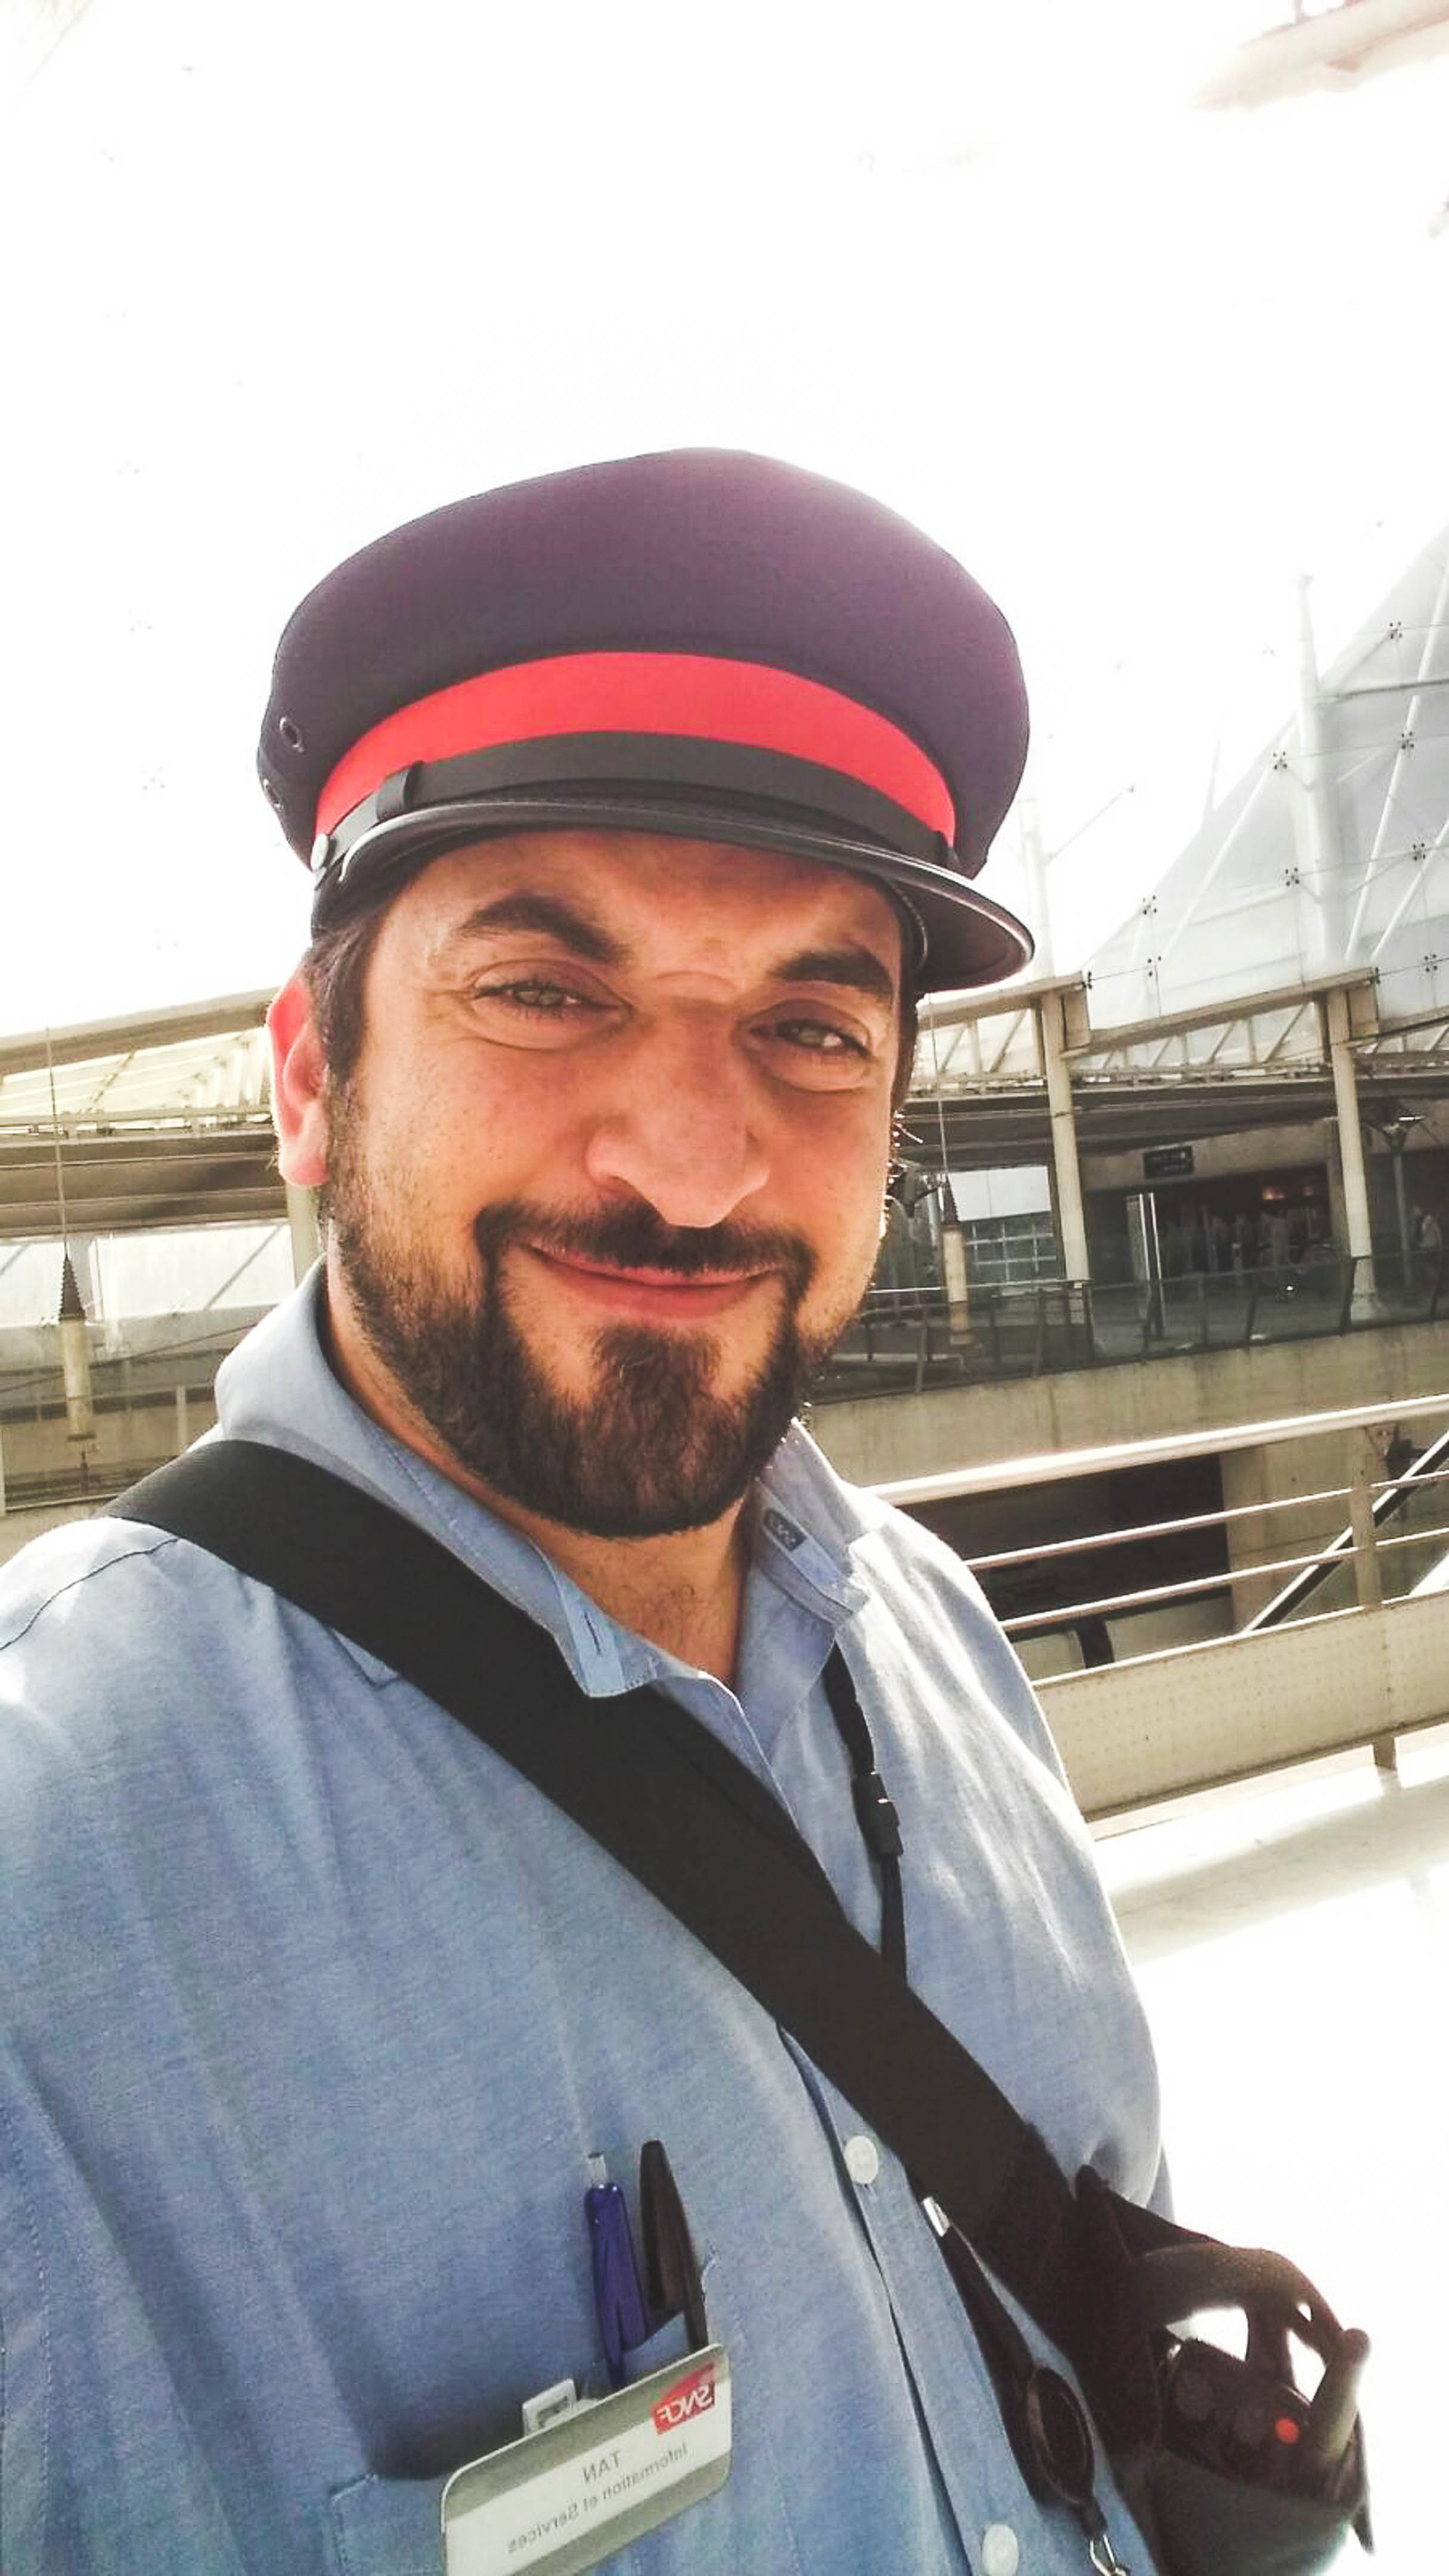
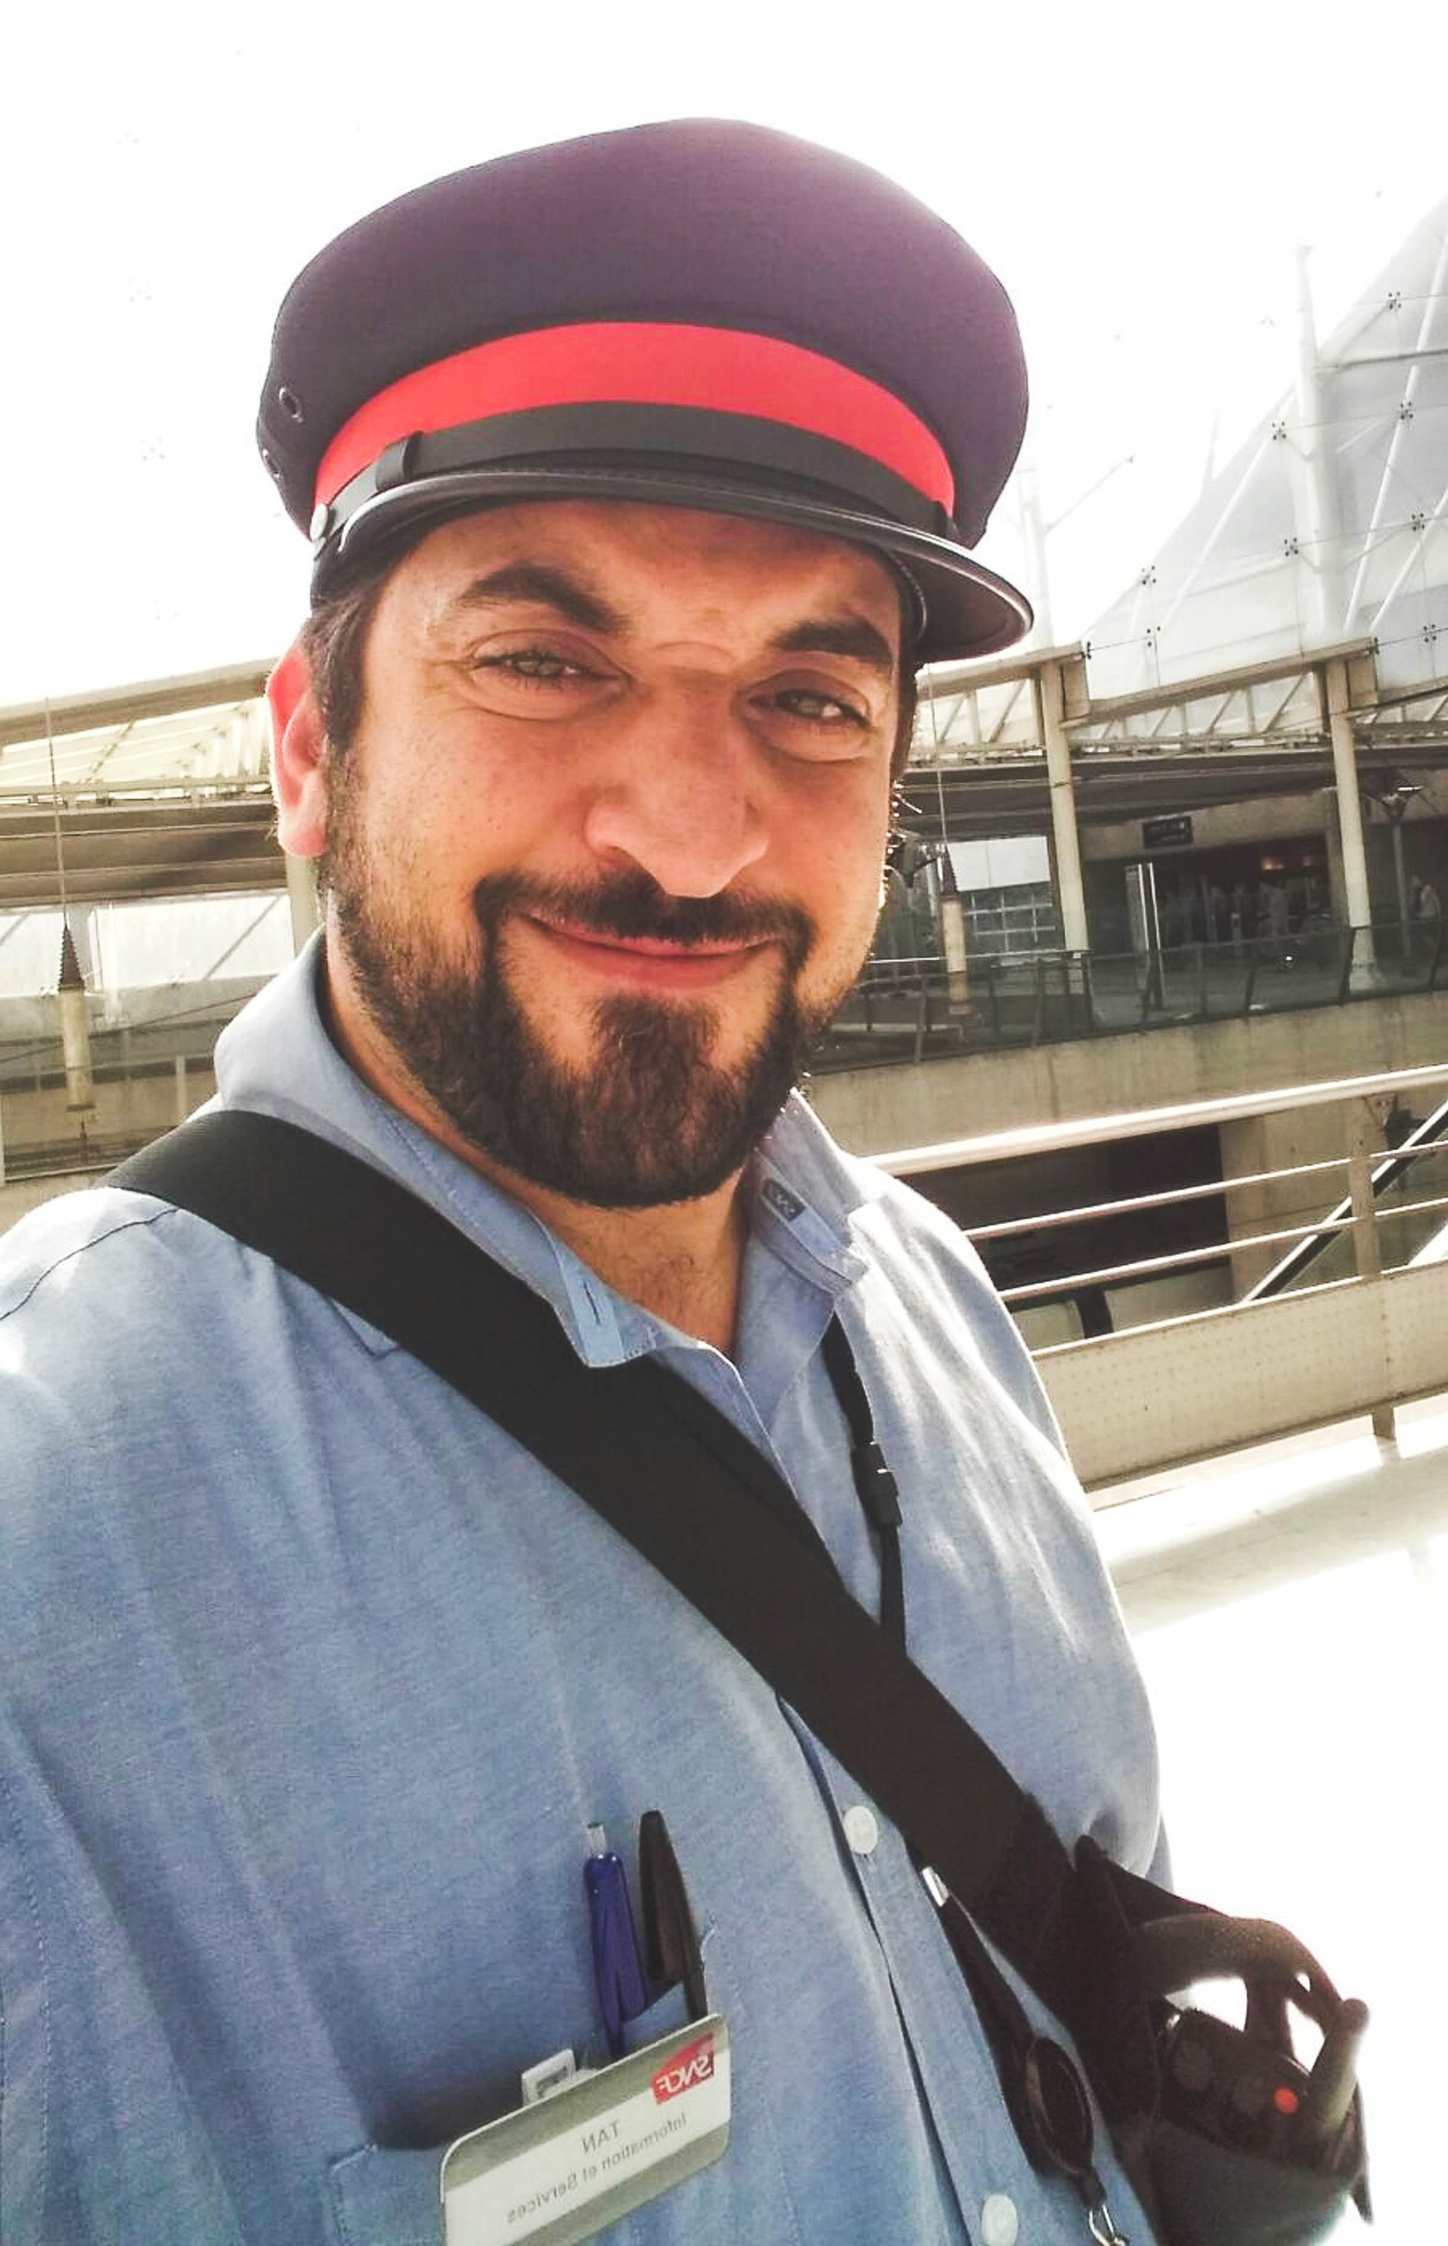
premier jet ok et propre

diff --git a/public/index.bundle.js b/public/index.bundle.js
@@ -86,6 +86,19 @@
 /************************************************************************/
 /******/ ({
 
+/***/ "./assets/img/IP.png":
+/*!***************************!*\
+  !*** ./assets/img/IP.png ***!
+  \***************************/
+/*! exports provided: default */
+/***/ (function(module, __webpack_exports__, __webpack_require__) {
+
+"use strict";
+__webpack_require__.r(__webpack_exports__);
+/* harmony default export */ __webpack_exports__["default"] = (__webpack_require__.p + "assets/img/IP.png");
+
+/***/ }),
+
 /***/ "./assets/img/localisation.png":
 /*!*************************************!*\
   !*** ./assets/img/localisation.png ***!
@@ -112,6 +125,32 @@ __webpack_require__.r(__webpack_exports__);
 
 /***/ }),
 
+/***/ "./assets/img/nodeicon.png":
+/*!*********************************!*\
+  !*** ./assets/img/nodeicon.png ***!
+  \*********************************/
+/*! exports provided: default */
+/***/ (function(module, __webpack_exports__, __webpack_require__) {
+
+"use strict";
+__webpack_require__.r(__webpack_exports__);
+/* harmony default export */ __webpack_exports__["default"] = (__webpack_require__.p + "assets/img/nodeicon.png");
+
+/***/ }),
+
+/***/ "./assets/img/ville.png":
+/*!******************************!*\
+  !*** ./assets/img/ville.png ***!
+  \******************************/
+/*! exports provided: default */
+/***/ (function(module, __webpack_exports__, __webpack_require__) {
+
+"use strict";
+__webpack_require__.r(__webpack_exports__);
+/* harmony default export */ __webpack_exports__["default"] = (__webpack_require__.p + "assets/img/ville.png");
+
+/***/ }),
+
 /***/ "./assets/img/weather.png":
 /*!********************************!*\
   !*** ./assets/img/weather.png ***!
@@ -122,6 +161,19 @@ __webpack_require__.r(__webpack_exports__);
 "use strict";
 __webpack_require__.r(__webpack_exports__);
 /* harmony default export */ __webpack_exports__["default"] = (__webpack_require__.p + "assets/img/weather.png");
+
+/***/ }),
+
+/***/ "./assets/img/weatherapp.png":
+/*!***********************************!*\
+  !*** ./assets/img/weatherapp.png ***!
+  \***********************************/
+/*! exports provided: default */
+/***/ (function(module, __webpack_exports__, __webpack_require__) {
+
+"use strict";
+__webpack_require__.r(__webpack_exports__);
+/* harmony default export */ __webpack_exports__["default"] = (__webpack_require__.p + "assets/img/weatherapp.png");
 
 /***/ }),
 
@@ -173,9 +225,17 @@ __webpack_require__.r(__webpack_exports__);
 /* harmony import */ var _style_css__WEBPACK_IMPORTED_MODULE_0___default = /*#__PURE__*/__webpack_require__.n(_style_css__WEBPACK_IMPORTED_MODULE_0__);
 /* harmony import */ var _assets_img_localisation_png__WEBPACK_IMPORTED_MODULE_1__ = __webpack_require__(/*! ../assets/img/localisation.png */ "./assets/img/localisation.png");
 /* harmony import */ var _assets_img_weather_png__WEBPACK_IMPORTED_MODULE_2__ = __webpack_require__(/*! ../assets/img/weather.png */ "./assets/img/weather.png");
-/* harmony import */ var _assets_img_me_jpg__WEBPACK_IMPORTED_MODULE_3__ = __webpack_require__(/*! ../assets/img/me.jpg */ "./assets/img/me.jpg");
-/* harmony import */ var _assets_js_app_js__WEBPACK_IMPORTED_MODULE_4__ = __webpack_require__(/*! ../assets/js/app.js */ "./assets/js/app.js");
-/* harmony import */ var _assets_js_app_js__WEBPACK_IMPORTED_MODULE_4___default = /*#__PURE__*/__webpack_require__.n(_assets_js_app_js__WEBPACK_IMPORTED_MODULE_4__);
+/* harmony import */ var _assets_img_nodeicon_png__WEBPACK_IMPORTED_MODULE_3__ = __webpack_require__(/*! ../assets/img/nodeicon.png */ "./assets/img/nodeicon.png");
+/* harmony import */ var _assets_img_weatherapp_png__WEBPACK_IMPORTED_MODULE_4__ = __webpack_require__(/*! ../assets/img/weatherapp.png */ "./assets/img/weatherapp.png");
+/* harmony import */ var _assets_img_IP_png__WEBPACK_IMPORTED_MODULE_5__ = __webpack_require__(/*! ../assets/img/IP.png */ "./assets/img/IP.png");
+/* harmony import */ var _assets_img_ville_png__WEBPACK_IMPORTED_MODULE_6__ = __webpack_require__(/*! ../assets/img/ville.png */ "./assets/img/ville.png");
+/* harmony import */ var _assets_img_me_jpg__WEBPACK_IMPORTED_MODULE_7__ = __webpack_require__(/*! ../assets/img/me.jpg */ "./assets/img/me.jpg");
+/* harmony import */ var _assets_js_app_js__WEBPACK_IMPORTED_MODULE_8__ = __webpack_require__(/*! ../assets/js/app.js */ "./assets/js/app.js");
+/* harmony import */ var _assets_js_app_js__WEBPACK_IMPORTED_MODULE_8___default = /*#__PURE__*/__webpack_require__.n(_assets_js_app_js__WEBPACK_IMPORTED_MODULE_8__);
+
+
+
+
 
 
 
@@ -196,4 +256,4 @@ __webpack_require__.r(__webpack_exports__);
 /***/ })
 
 /******/ });
[2 lines of base64/hex data omitted]

diff --git a/public/index.css b/public/index.css
@@ -2,6 +2,15 @@ h1 {
   color: red;
   margin-top: 80px;
 }
+.card {
+  display: flex;
+  align-items: center;
+  min-width: 200px;
+}
+
+.card img {
+  width: 50px;
+}
 body {
   color: #333333;
   font-family: arial;
@@ -41,9 +50,9 @@ header a {
 }
 
 .portrait {
-  max-height: 40vh;
+  max-height: 250px;
+  max-width: 180px;
   width: 250 px;
-  max-height: 40vh;
 }
 
 input {
@@ -58,4 +67,5 @@ button {
   padding: 8px;
 }
 
[1 lines of base64/hex data omitted]
+
[1 lines of base64/hex data omitted]

diff --git a/src/index.js b/src/index.js
@@ -1,5 +1,9 @@
 import "./style.css";
 import "../assets/img/localisation.png";
 import "../assets/img/weather.png";
+import "../assets/img/nodeicon.png";
+import "../assets/img/weatherapp.png";
+import "../assets/img/IP.png";
+import "../assets/img/ville.png";
 import "../assets/img/me.jpg";
 import '../assets/js/app.js'
